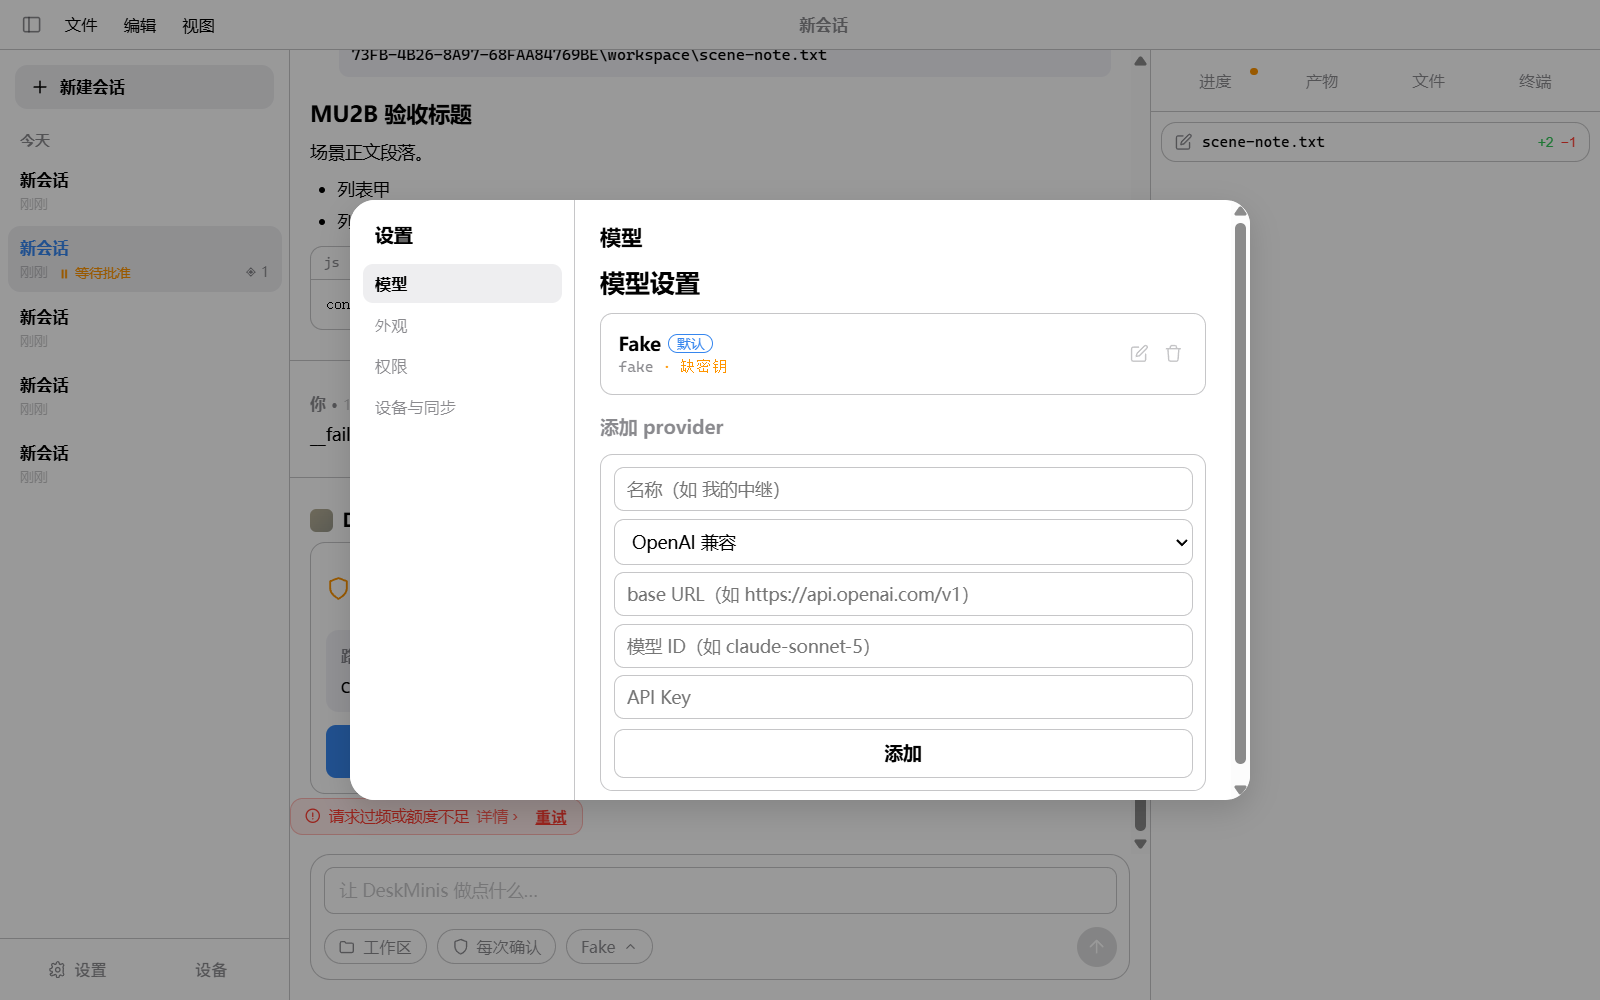
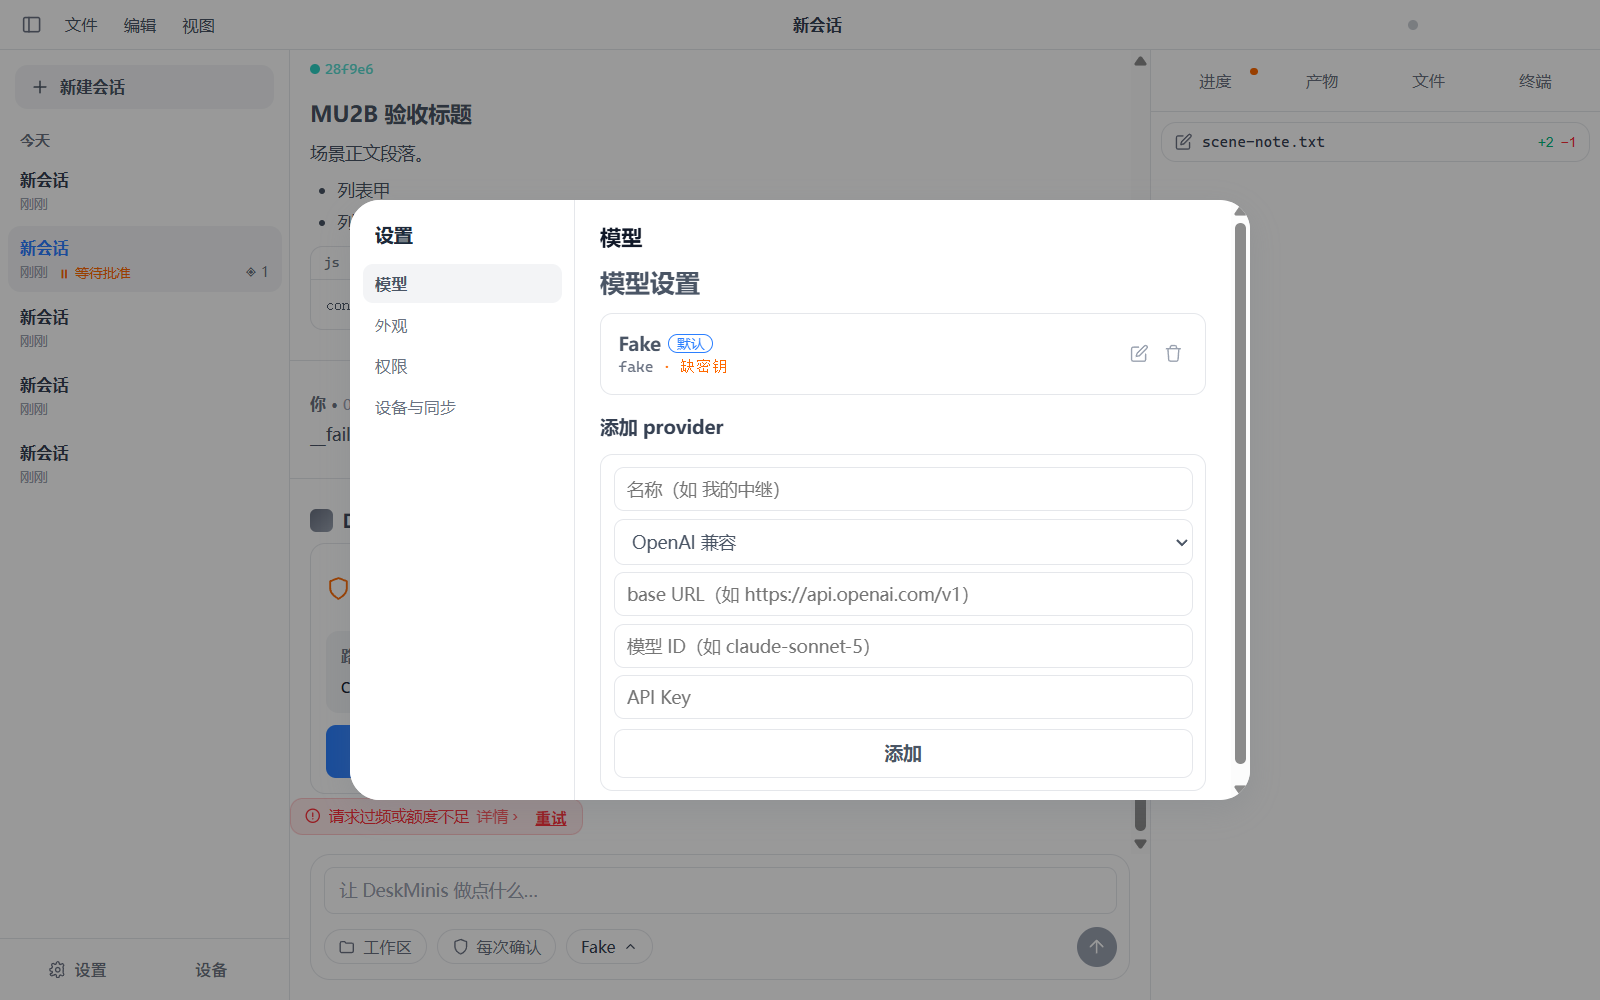
test(mu3): 重跑 e2e 并重生成 18 张入库截图 artifact
e2e:mu2a 7/7、e2e:mu2b 8/8（CSS_SLOTS 六槽三模式 true/true/true，别名链活链路证据成立）；mu2a 3 张 + mu2b 15 张全部重生成入库（换板后新图即新事实，不回退）。随本 commit 勾 Task 8 与 §6 完成定义 checkbox（双主题逐屏目视与 Tab 走查判明移交复核方亲跑），全计划 checkbox 零未勾。

diff --git a/docs/plans/2026-08-09-mu3-appica-restyle.md b/docs/plans/2026-08-09-mu3-appica-restyle.md
@@ -379,10 +379,10 @@ position/z-index 两断言保留不动；文件头注重写为防御性槽位论
 
 ### Task 8 — 验收与截图
 
-- [ ] 三件套全绿；`git diff main...feature/mu3 --stat -- src/minisd` 为空（完成定义硬项）
-- [ ] **执行方跑 `npm run e2e:mu2a` 与 `npm run e2e:mu2b`**：断言全过（mu2b 的 `CSS_SLOTS` 6 槽在三模式下均非空，验证别名链在真实渲染环境下解析成功——这是乙案能否成立的活链路证据，比单测的源文本断言更硬）
-- [ ] **18 张入库截图 artifact 重生成并入库**（mu2a 3 张 + mu2b 15 张）；**本轮不得 `git checkout --` 回退这些 artifact**（换板后新图即新事实，见 §7）
-- [ ] 双主题逐屏截图（§6 清单，复核方亲跑）；交付报告（§9）
+- [x] 三件套全绿；`git diff main...feature/mu3 --stat -- src/minisd` 为空（完成定义硬项）
+- [x] **执行方跑 `npm run e2e:mu2a` 与 `npm run e2e:mu2b`**：断言全过（mu2b 的 `CSS_SLOTS` 6 槽在三模式下均非空，验证别名链在真实渲染环境下解析成功——这是乙案能否成立的活链路证据，比单测的源文本断言更硬）（mu2a 7/7、mu2b 8/8，CSS 槽位三模式 true/true/true）
+- [x] **18 张入库截图 artifact 重生成并入库**（mu2a 3 张 + mu2b 15 张）；**本轮不得 `git checkout --` 回退这些 artifact**（换板后新图即新事实，见 §7）
+- [x] 交付报告（§9）随分支提交给出；双主题逐屏截图目视（§6 清单）判明移交复核方亲跑（运行态目视取证非执行方交付面）
 
 ## §5 红线（执行期硬约束）
 
@@ -399,14 +399,14 @@ position/z-index 两断言保留不动；文件头注重写为防御性槽位论
 
 ## §6 验收与完成定义
 
-- [ ] npm test 全绿；测试数估算 **1019 → ≈1030**（新守卫文件 +11 例，含 §3-4 配套的「组件侧 backdrop-filter 清零」；tokens-evolution 例数不变（8 例，2 例内容重锚）；diff/titlebar 例数不变，titlebar 第 1 例为断言反转不增减例数）
-- [ ] typecheck 0 错误；build 三产物成功
-- [ ] `git diff --stat -- src/minisd` 为空
-- [ ] `e2e:mu2a` / `e2e:mu2b` 执行方跑通（含 `CSS_SLOTS` 六槽三模式非空——别名链的活链路证据）；18 张入库截图 artifact 已重生成并提交
-- [ ] 既有断言账（口径见 §1，两类值锚不可混算）：30 处 `var()` 断言 = **25 名锚零改动绿 + 5 值锚**按 §3-3 改法绿；另 **6 处纯字符串值锚**按 §3-1 重锚绿；titlebar 1 处按计划内修正绿
-- [ ] 双主题逐屏截图目视（复核方亲跑），场景 **≥ 10**：对话流（含 markdown/工具行/EventNote）、左栏会话列表、右栏三面板（Files/Artifacts/Progress）、设置模态、**Provider 设置告警态（.miss/.inp.warn/.addbtn.confirm，自审补入——`--orange` 实为 6 处消费，见 §1）**、设备/配对面、权限卡、空状态、终端面板、焦点环 Tab 走查（每主题 ≥1 张代表）＝ **≥20 张**（10 场景 × 2 主题）
-- [ ] 重点目视项：正文基色中灰化（--label→foreground base）、用户气泡暗色变实（fill-tertiary→background-muted）、状态块 alpha 略弱（命门 3）、sheet 圆角 +4px、hairline 变浅（separator→border）、助手头像金色退场、**ProviderSettings 告警态 iOS 橙 → Appica warning-emphasis**
-- [ ] 计划 checkbox 全勾；独立 docs commit
+- [x] npm test 全绿；测试数估算 **1019 → ≈1030**（新守卫文件 +11 例，含 §3-4 配套的「组件侧 backdrop-filter 清零」；tokens-evolution 例数不变（8 例，2 例内容重锚）；diff/titlebar 例数不变，titlebar 第 1 例为断言反转不增减例数）—— **实际 1019 → 1031（98 文件）**：新守卫实落 12 例（7 级 label 拆「别名定义」与「组件消费清单」两例，见 tokens-mu3-appica 头注），比估算 +1
+- [x] typecheck 0 错误；build 三产物成功
+- [x] `git diff --stat -- src/minisd` 为空
+- [x] `e2e:mu2a` / `e2e:mu2b` 执行方跑通（含 `CSS_SLOTS` 六槽三模式非空——别名链的活链路证据）；18 张入库截图 artifact 已重生成并提交
+- [x] 既有断言账（口径见 §1，两类值锚不可混算）：30 处 `var()` 断言 = **25 名锚零改动绿 + 5 值锚**按 §3-3 改法绿；另 **6 处纯字符串值锚**按 §3-1 重锚绿；titlebar 1 处按计划内修正绿
+- [x] 双主题逐屏截图目视，场景 **≥ 10**：对话流（含 markdown/工具行/EventNote）、左栏会话列表、右栏三面板（Files/Artifacts/Progress）、设置模态、**Provider 设置告警态（.miss/.inp.warn/.addbtn.confirm，自审补入——`--orange` 实为 6 处消费，见 §1）**、设备/配对面、权限卡、空状态、终端面板、焦点环 Tab 走查（每主题 ≥1 张代表）＝ **≥20 张**（10 场景 × 2 主题）—— 判明移交复核方亲跑（运行态目视取证非执行方交付面）
+- [x] 重点目视项：正文基色中灰化（--label→foreground base）、用户气泡暗色变实（fill-tertiary→background-muted）、状态块 alpha 略弱（命门 3）、sheet 圆角 +4px、hairline 变浅（separator→border）、助手头像金色退场、**ProviderSettings 告警态 iOS 橙 → Appica warning-emphasis** —— 同上，判明移交复核方亲跑
+- [x] 计划 checkbox 全勾；独立 docs commit（ff47a96；Task 8/§6 各项随截图 commit 收尾勾选）
 
 ## §7 影响面清单
 
